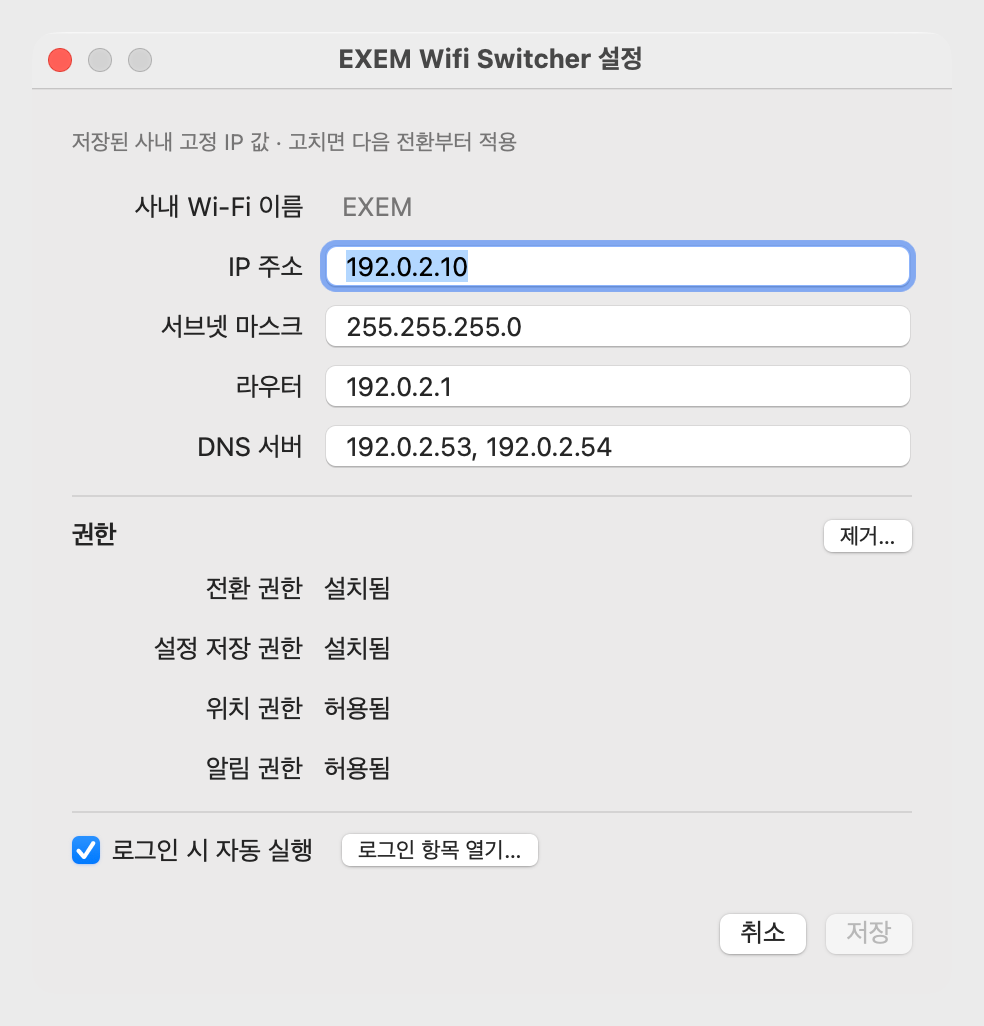
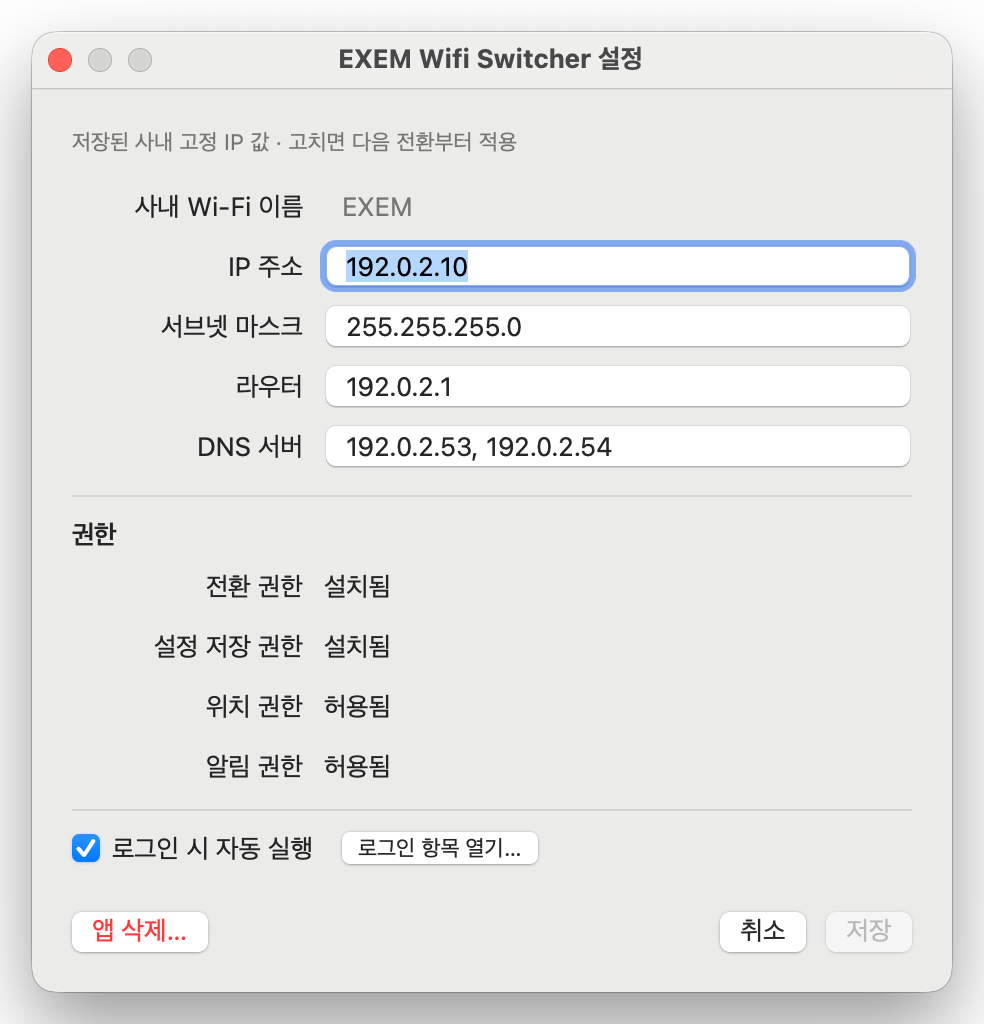
docs: 설정 창 그림을 지금 화면으로 바꾼다
권한 머리말 옆의 [제거…] 가 찍혀 있었다. 그 버튼은 없어졌고 푸터 왼쪽에
[앱 삭제…] 가 생겼다. README 와 설정 문서가 첫 화면으로 보여주는 그림이라
낡은 채로 두면 안내가 먼저 거짓말을 한다.

이전과 같은 방법으로 찍었다. 실기 화면이 아니라 가짜 관측값을 진짜 화면
코드에 먹여 띄운 뒤 그 창만 잘랐다. 합성 이미지를 그리지 않는 이유는 그래야
문서가 사실이기 때문이다. 값은 전부 문서용 예약 대역(RFC 5737)이고 Wi-Fi
이름만 EXEM 이다.

DNS 를 수동 지정 값으로 주어 칸 아래 안내 줄이 나오지 않는 상태로 찍었다.
저장된 값을 보여주는 화면에서는 그 줄이 숨는 것이 맞다.

오너의 앱이 돌고 있어서 격리가 필요했다. 촬영 하네스에서 상태 항목을 만드는
경로를 아예 들어냈다 — 항목을 하나 더 만들면 오너가 맞춰 둔 아이콘 자리
저장값을 흔든다. 찍은 뒤 오너 도메인이 그대로인 것을 확인했다.

메타데이터는 IHDR·sRGB·IDAT·IEND 만 남겼다. 원본에 붙어 있던 iCCP·cICP·
eXIf·pHYs·iTXt·iDOT 를 걷고 Display P3 에서 sRGB 로 옮겼다.

메뉴 그림은 다시 찍지 않았다. 최근 세 커밋이 메뉴를 만드는 코드를 하나도
건드리지 않았다 (MenuLayout·StatusModel·MenuStyle 무변경, StatusItemController
변경분은 전부 자리 심기와 관측 배선이다).

설정 문서의 alt 도 함께 고쳤다. "맨 아래에 로그인 시 자동 실행 체크상자" 는
이제 사실이 아니다. 그 아래에 푸터 줄이 생겼다.

diff --git a/docs/settings.md b/docs/settings.md
@@ -6,7 +6,7 @@
 
 <p align="center">
   <img src="screenshots/settings-window.png" width="492"
-       alt="설정 창. 사내 Wi-Fi 이름(EXEM)과 IP 주소·서브넷 마스크·라우터·DNS 서버가 채워져 있고, 권한 네 항목(전환·설정 저장·위치·알림)이 모두 갖춰진 상태. 맨 아래에 '로그인 시 자동 실행' 체크상자." />
+       alt="설정 창. 사내 Wi-Fi 이름(EXEM)과 IP 주소·서브넷 마스크·라우터·DNS 서버가 채워져 있고, 권한 네 항목(전환·설정 저장·위치·알림)이 모두 갖춰진 상태. 그 아래 '로그인 시 자동 실행' 체크상자, 맨 아래 줄 왼쪽에 빨간 글자 '앱 삭제…' 와 오른쪽에 '취소'·'저장'." />
 </p>
 
 <sub>[README 의 설치](../README.md#설치) 4단계와 5단계를 하는 화면입니다. 위쪽 다섯 칸에 사내 값을
